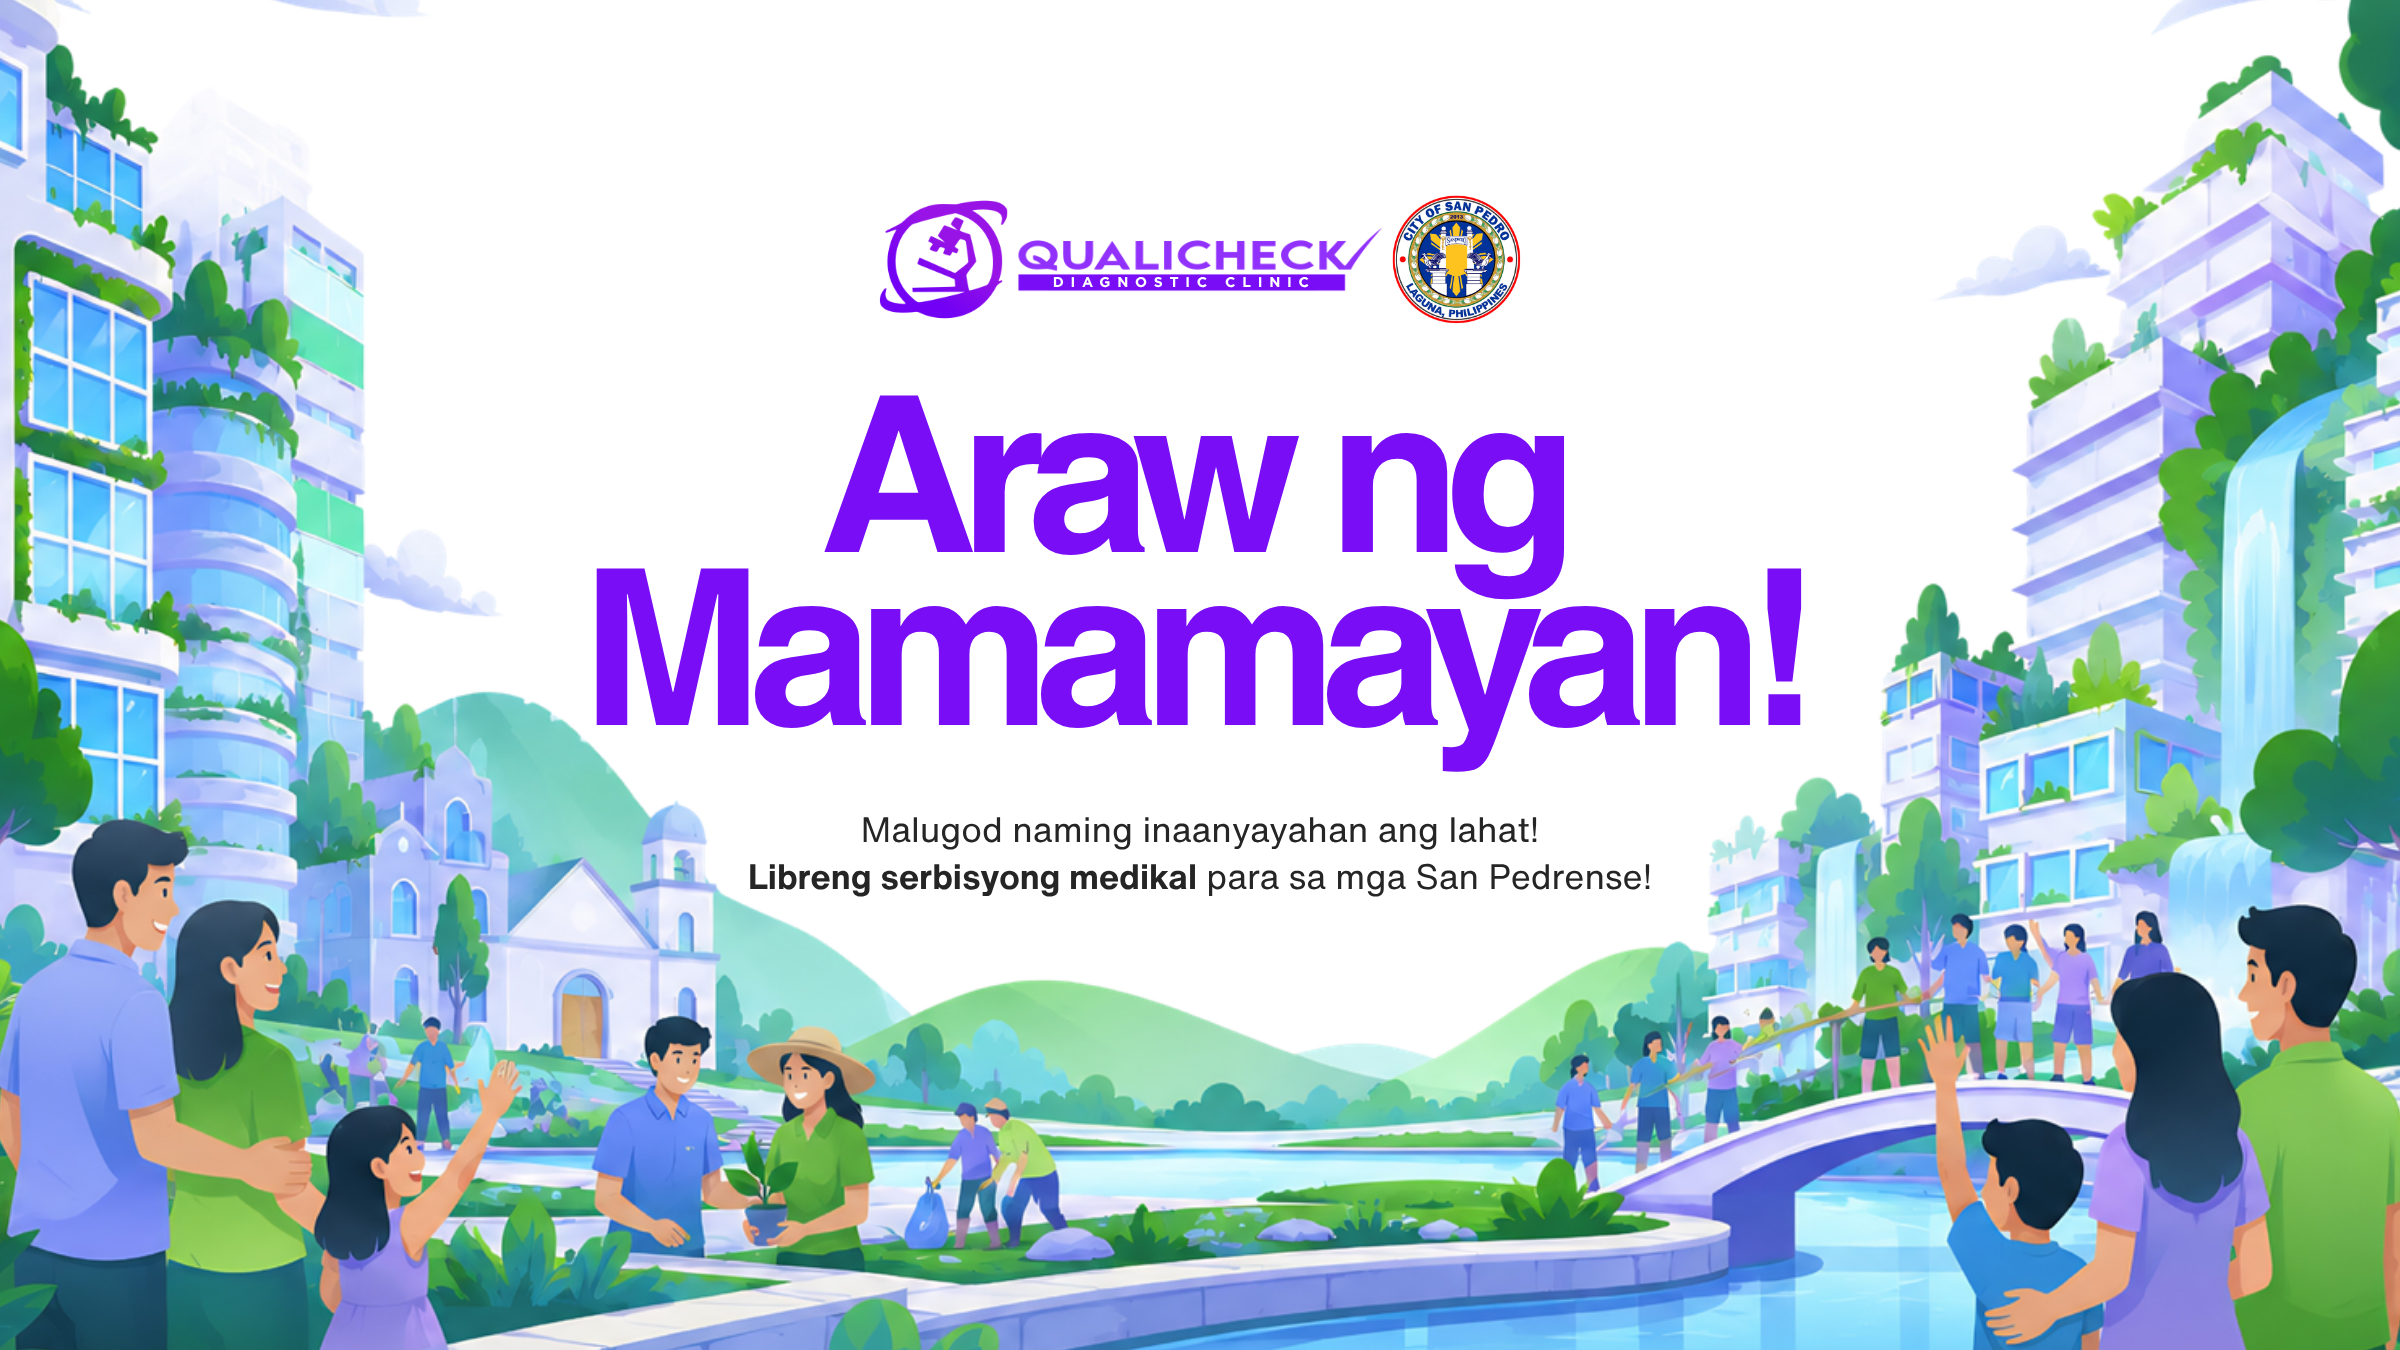
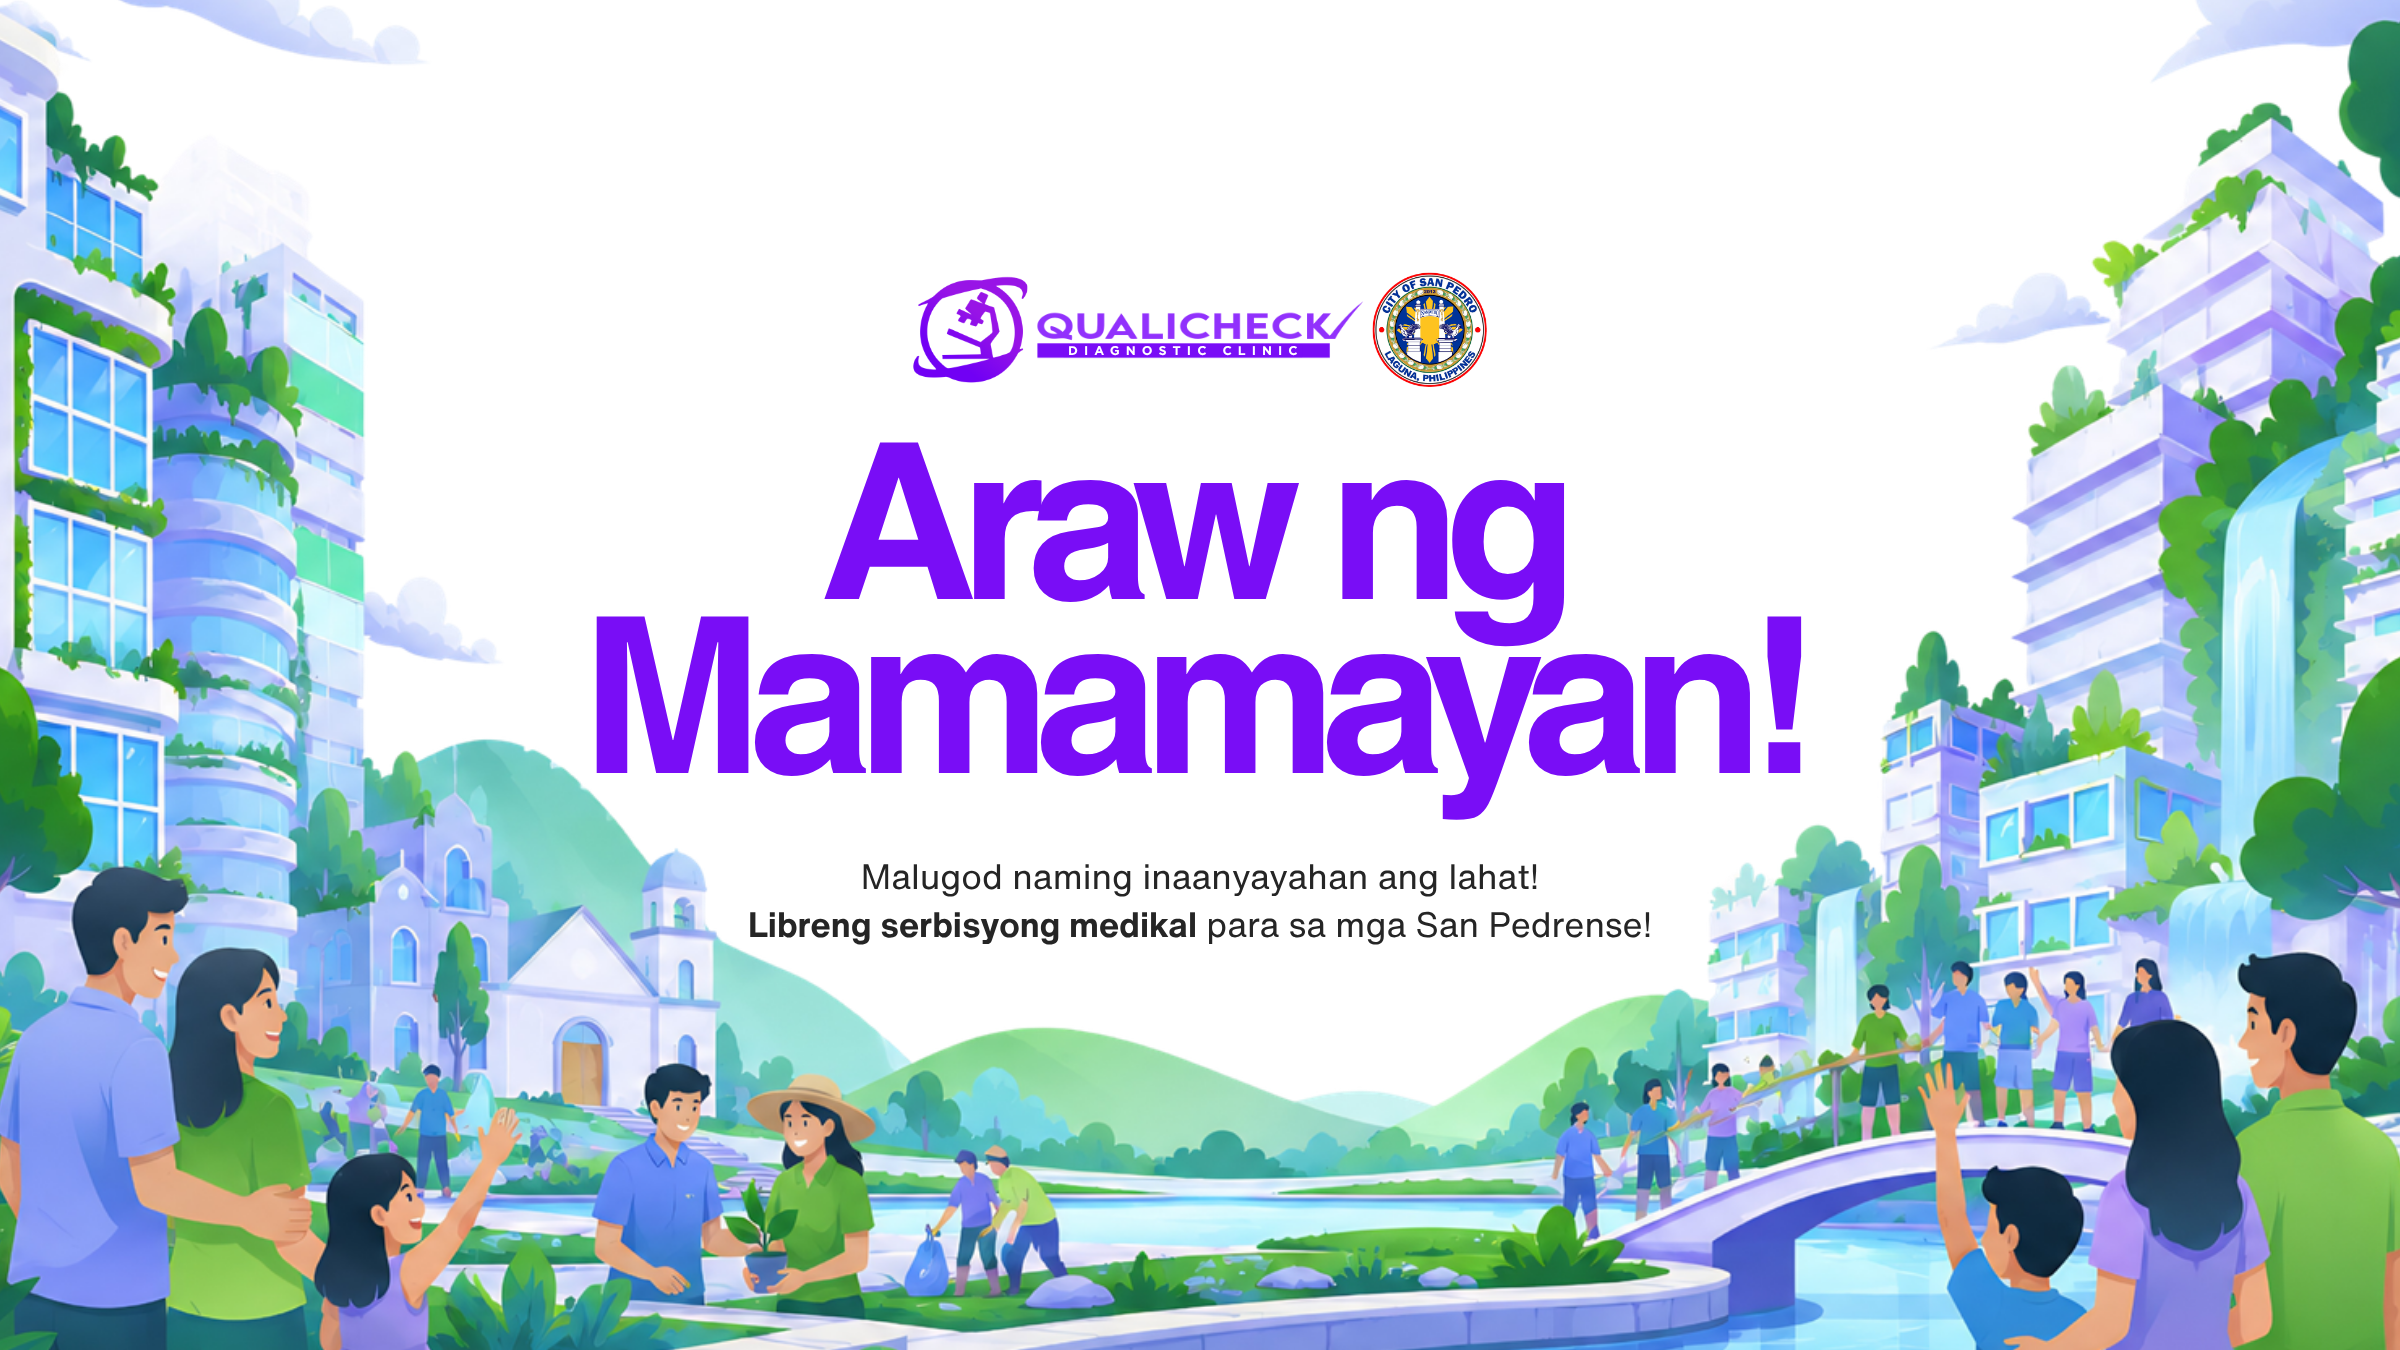
fixed

diff --git a/index.html b/index.html
@@ -383,7 +383,7 @@
 
     .hero-actions {
       position: absolute;
-      bottom: 205px;
+      bottom: 100px;
       left: 0;
       right: 0;
       display: flex;
